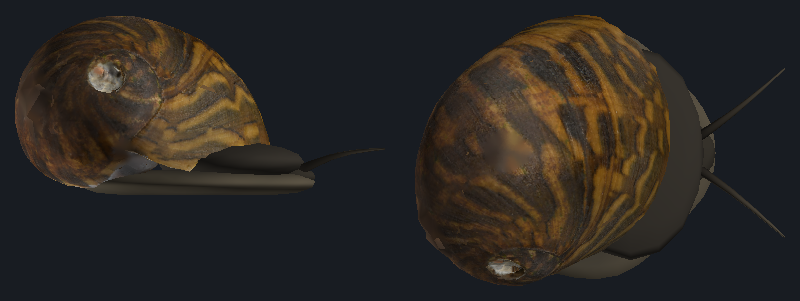
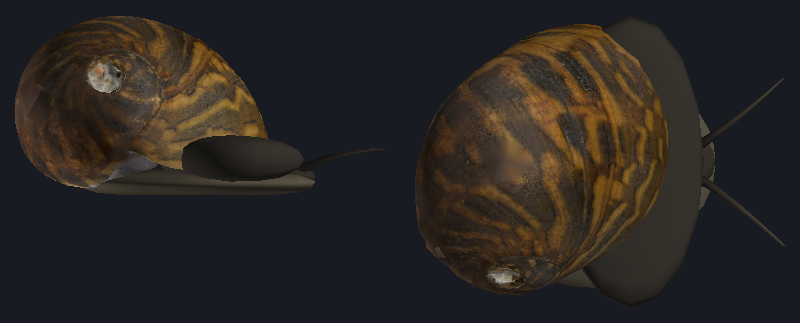
fix(assets): fill the nerite wedge under the shell side wall (#868)
Claude-Session: https://claude.ai/code/session_014h4umWfYfbtHynzrze5EiL

diff --git a/tools/asset-pipeline/src/crew-lods.test.ts b/tools/asset-pipeline/src/crew-lods.test.ts
@@ -162,6 +162,31 @@ function enclosedBackgroundPixels(prims: ShippedPrimitive[], view: ViewAxis, sea
   return enclosed;
 }
 
+/** Highest point of the surface straight above or below (x, z), or -Infinity where there is none. */
+function bodyHeightAt(prim: ShippedPrimitive, x: number, z: number): number {
+  let top = -Infinity;
+  const { positions, indices } = prim;
+  for (let t = 0; t < indices.length; t += 3) {
+    const [a, b, c] = [0, 1, 2].map((k) => indices[t + k]! * 3) as [number, number, number];
+    const area =
+      (positions[b]! - positions[a]!) * (positions[c + 2]! - positions[a + 2]!) -
+      (positions[c]! - positions[a]!) * (positions[b + 2]! - positions[a + 2]!);
+    if (Math.abs(area) < 1e-18) continue;
+    const w0 =
+      ((positions[b]! - x) * (positions[c + 2]! - z) -
+        (positions[c]! - x) * (positions[b + 2]! - z)) /
+      area;
+    const w1 =
+      ((positions[c]! - x) * (positions[a + 2]! - z) -
+        (positions[a]! - x) * (positions[c + 2]! - z)) /
+      area;
+    const w2 = 1 - w0 - w1;
+    if (w0 < 0 || w1 < 0 || w2 < 0) continue;
+    top = Math.max(top, w0 * positions[a + 1]! + w1 * positions[b + 1]! + w2 * positions[c + 1]!);
+  }
+  return top;
+}
+
 function lipGapAcrossWidth(
   prims: ShippedPrimitive[],
   length: number,
@@ -175,6 +200,7 @@ function lipGapAcrossWidth(
     frontZ = Math.max(frontZ, shell.positions[v * 3 + 2]!);
   const lipUnder = new Array<number>(bins).fill(Infinity);
   const lipZ = new Array<number>(bins).fill(0);
+  const lipX = new Array<number>(bins).fill(0);
   for (let v = 0; v < shell.positions.length / 3; v++) {
     const bin = binOf(shell.positions[v * 3]!);
     const y = shell.positions[v * 3 + 1]!;
@@ -182,15 +208,10 @@ function lipGapAcrossWidth(
     if (y < lipUnder[bin]!) {
       lipUnder[bin] = y;
       lipZ[bin] = shell.positions[v * 3 + 2]!;
+      lipX[bin] = shell.positions[v * 3]!;
     }
   }
-  const bodyTop = new Array<number>(bins).fill(-Infinity);
-  for (let v = 0; v < body.positions.length / 3; v++) {
-    const bin = binOf(body.positions[v * 3]!);
-    if (bin < 0 || bin >= bins || Math.abs(body.positions[v * 3 + 2]! - lipZ[bin]!) > 0.08 * length)
-      continue;
-    bodyTop[bin] = Math.max(bodyTop[bin]!, body.positions[v * 3 + 1]!);
-  }
+  const bodyTop = lipUnder.map((_, bin) => bodyHeightAt(body, lipX[bin]!, lipZ[bin]!));
   const gaps = lipUnder.map((y, bin) => y - bodyTop[bin]!).filter(Number.isFinite);
   return { worst: Math.max(...gaps), samples: gaps.length };
 }
@@ -299,4 +320,88 @@ describe('shipped scan LODs', () => {
         for (const prim of prims) expect(uvStretchShare(prim)).toBeLessThan(0.01);
       });
     }
+});
+
+/**
+ * Looks at the snail from `azimuth` and `elevation` degrees and counts the background pixels that sit in a pocket:
+ * solid within `reach` of them above and below, and on at least one side. That is the wedge left where a shell wall
+ * ends above the foot; a dome overhanging the open ground has nothing below it and a smooth silhouette has no pocket.
+ * Returns the pocket area as a share of the squared shell length.
+ */
+function pocketArea(
+  prims: ShippedPrimitive[],
+  length: number,
+  azimuth: number,
+  elevation: number,
+): number {
+  const columns = 640;
+  const rows = 360;
+  const pixel = (1.6 * length) / columns;
+  const vTop = 0.75 * length;
+  const a = (azimuth * Math.PI) / 180;
+  const e = (elevation * Math.PI) / 180;
+  const toward = [Math.sin(a) * Math.cos(e), Math.sin(e), Math.cos(a) * Math.cos(e)];
+  const right = [Math.cos(a), 0, -Math.sin(a)];
+  const up = [
+    toward[1]! * right[2]! - toward[2]! * right[1]!,
+    toward[2]! * right[0]! - toward[0]! * right[2]!,
+    toward[0]! * right[1]! - toward[1]! * right[0]!,
+  ];
+  const along = (p: Float32Array, v: number, axis: number[]): number =>
+    p[v * 3]! * axis[0]! + p[v * 3 + 1]! * axis[1]! + p[v * 3 + 2]! * axis[2]!;
+  const solid = new Uint8Array(columns * rows);
+  for (const prim of prims)
+    for (let t = 0; t < prim.indices.length; t += 3) {
+      const corners = [0, 1, 2].map((k) => {
+        const v = prim.indices[t + k]!;
+        return {
+          x: along(prim.positions, v, right) / pixel + columns / 2,
+          y: (vTop - along(prim.positions, v, up)) / pixel,
+        };
+      });
+      const [p, q, r] = corners as [(typeof corners)[0], (typeof corners)[0], (typeof corners)[0]];
+      const area = (q.x - p.x) * (r.y - p.y) - (r.x - p.x) * (q.y - p.y);
+      if (Math.abs(area) < 1e-9) continue;
+      const x0 = Math.max(0, Math.floor(Math.min(p.x, q.x, r.x)));
+      const x1 = Math.min(columns - 1, Math.ceil(Math.max(p.x, q.x, r.x)));
+      const y0 = Math.max(0, Math.floor(Math.min(p.y, q.y, r.y)));
+      const y1 = Math.min(rows - 1, Math.ceil(Math.max(p.y, q.y, r.y)));
+      for (let y = y0; y <= y1; y++)
+        for (let x = x0; x <= x1; x++) {
+          const w0 = ((q.x - x - 0.5) * (r.y - y - 0.5) - (r.x - x - 0.5) * (q.y - y - 0.5)) / area;
+          const w1 = ((r.x - x - 0.5) * (p.y - y - 0.5) - (p.x - x - 0.5) * (r.y - y - 0.5)) / area;
+          const w2 = 1 - w0 - w1;
+          if (w0 < 0 || w1 < 0 || w2 < 0) continue;
+          solid[y * columns + x] = 1;
+        }
+    }
+  const reach = Math.round((0.08 * length) / pixel);
+  const near = (x: number, y: number, dx: number, dy: number): boolean => {
+    for (let k = 1; k <= reach; k++) {
+      const px = x + dx * k;
+      const py = y + dy * k;
+      if (px < 0 || py < 0 || px >= columns || py >= rows) return false;
+      if (solid[py * columns + px]) return true;
+    }
+    return false;
+  };
+  let pockets = 0;
+  for (let y = 0; y < rows; y++)
+    for (let x = 0; x < columns; x++)
+      if (!solid[y * columns + x] && near(x, y, 0, -1) && near(x, y, 0, 1))
+        if (near(x, y, -1, 0) || near(x, y, 1, 0)) pockets++;
+  return (pockets * pixel * pixel) / (length * length);
+}
+
+describe('nerite wedge', () => {
+  beforeAll(() => MeshoptDecoder.ready);
+
+  for (const level of [0, 1, 2])
+    for (const azimuth of [-60, -30, 0, 20, 40, 60])
+      for (const elevation of [0, 12])
+        it(`LOD${level} has no pocket of background under the shell from ${azimuth}/${elevation} degrees`, async () => {
+          const prims = await readLod('snail/nerite-snail', level);
+          const area = pocketArea(prims, 0.02, azimuth, elevation);
+          expect(area).toBeLessThan(0.0045);
+        });
 });

diff --git a/tools/asset-pipeline/src/nerite.ts b/tools/asset-pipeline/src/nerite.ts
@@ -269,6 +269,9 @@ function fan(rings: Rings, ring: number, centre: number, segments: number, flip:
 }
 const FOOT_SEGMENTS = 40;
 const FOOT_ROUNDNESS = 2.2;
+// A squarer cross-section fills the wedge between the shell's side wall, which hangs above the foot, and the mantle.
+const MANTLE_WIDTH = 1.16;
+const MANTLE_SQUARENESS = 0.5;
 const HEAD_SEGMENTS = 16;
 const HEAD_RINGS = 8;
 const TENTACLE_SIDES = 6;
@@ -432,7 +435,14 @@ export function buildNeriteBody(footprint: ShellFootprint, length: number): Neri
 
   const headCentre: Vec3 = [0, footH * 0.72, front - length * 0.12];
   const headRadius: Vec3 = [halfWidth * 0.27, footH * 0.55, length * 0.12];
-  const ellipsoid = (centre: Vec3, radius: Vec3, id: number, weight: number, v: number): void => {
+  const ellipsoid = (
+    centre: Vec3,
+    radius: Vec3,
+    id: number,
+    weight: number,
+    v: number,
+    squareness = 1,
+  ): void => {
     const ringStarts: number[] = [];
     for (let r = 1; r < HEAD_RINGS; r++) {
       const phi = (r / HEAD_RINGS) * Math.PI;
@@ -440,8 +450,8 @@ export function buildNeriteBody(footprint: ShellFootprint, length: number): Neri
       for (let k = 0; k < HEAD_SEGMENTS; k++) {
         const angle = (k / HEAD_SEGMENTS) * Math.PI * 2;
         points.push([
-          centre[0] + radius[0] * Math.sin(phi) * Math.cos(angle),
-          centre[1] + radius[1] * Math.sin(phi) * Math.sin(angle),
+          centre[0] + radius[0] * Math.sin(phi) * signedPow(Math.cos(angle), squareness),
+          centre[1] + radius[1] * Math.sin(phi) * signedPow(Math.sin(angle), squareness),
           centre[2] + radius[2] * Math.cos(phi),
         ]);
       }
@@ -457,14 +467,15 @@ export function buildNeriteBody(footprint: ShellFootprint, length: number): Neri
       stitch(rings, ringStarts[r]!, ringStarts[r + 1]!, HEAD_SEGMENTS);
     fan(rings, ringStarts[ringStarts.length - 1]!, tip, HEAD_SEGMENTS, true);
   };
-  const mantleTop = Math.max(footH * 1.8, footprint.ceilingY - length * 0.03);
+  const mantleTop = Math.max(footH * 1.8, footprint.ceilingY - length * 0.01);
   const mantleBottom = footH * 0.4;
   ellipsoid(
     [0, (mantleTop + mantleBottom) / 2, front - length * 0.3],
-    [halfWidth * 0.85, (mantleTop - mantleBottom) / 2, length * 0.26],
+    [halfWidth * MANTLE_WIDTH, (mantleTop - mantleBottom) / 2, length * 0.26],
     SNAIL_PART_IDS.foot,
     0.4,
     0.3,
+    MANTLE_SQUARENESS,
   );
   ellipsoid(headCentre, headRadius, SNAIL_PART_IDS.head, 0, 0.4);
 
